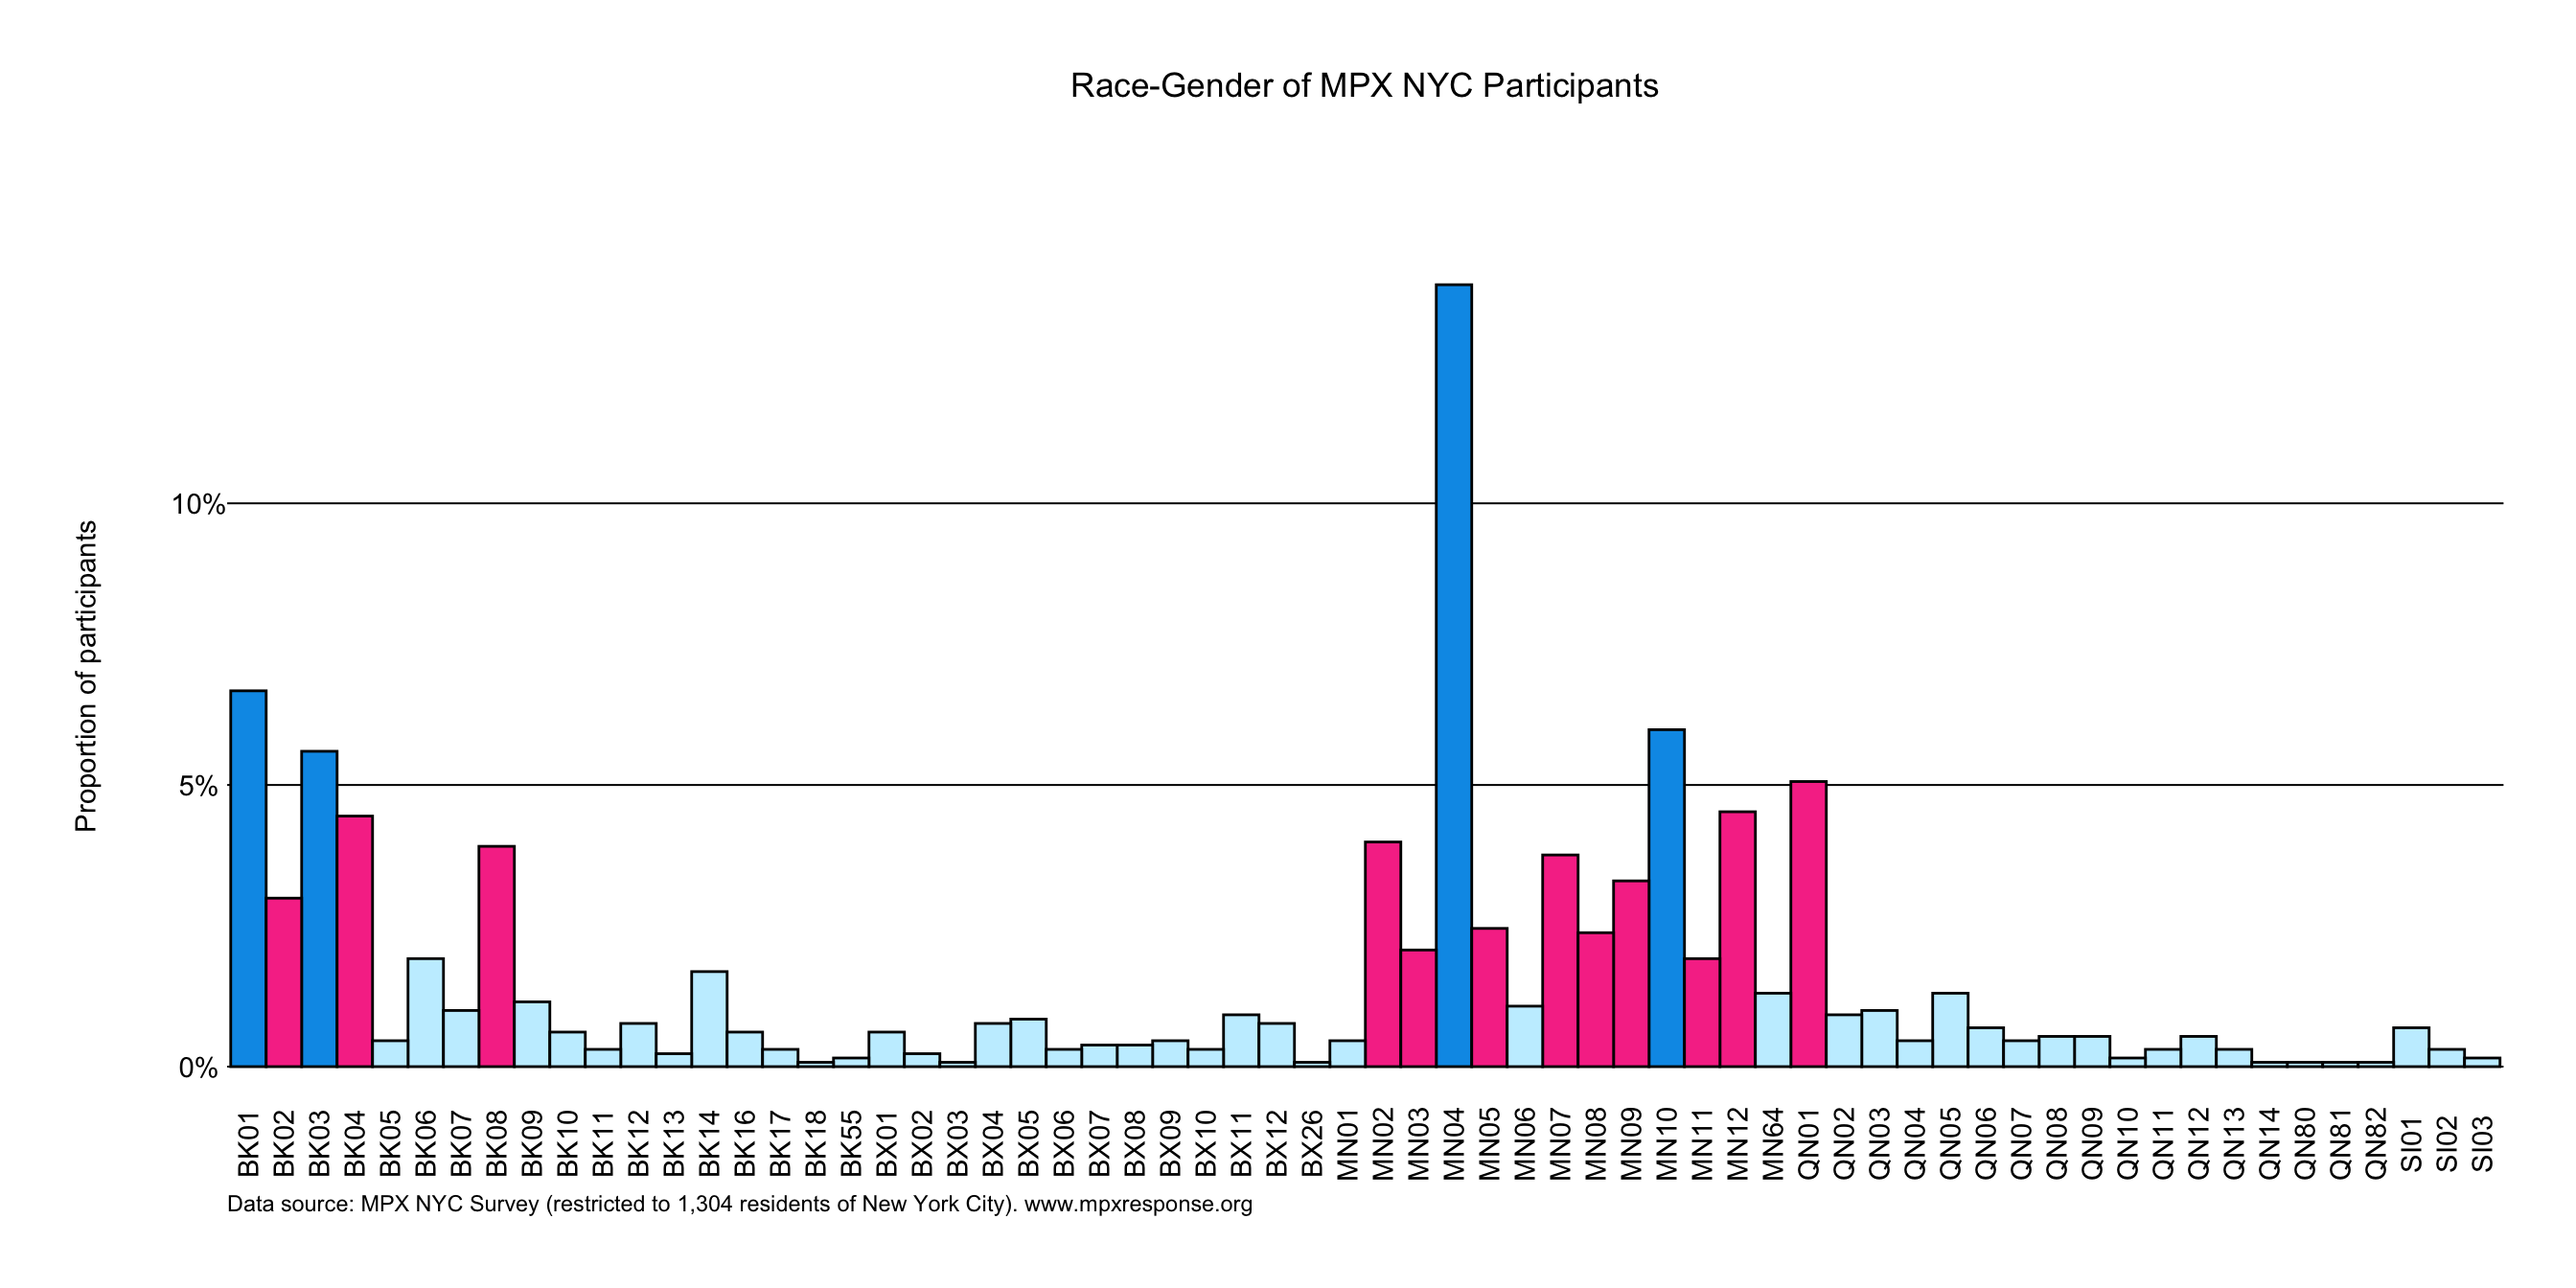
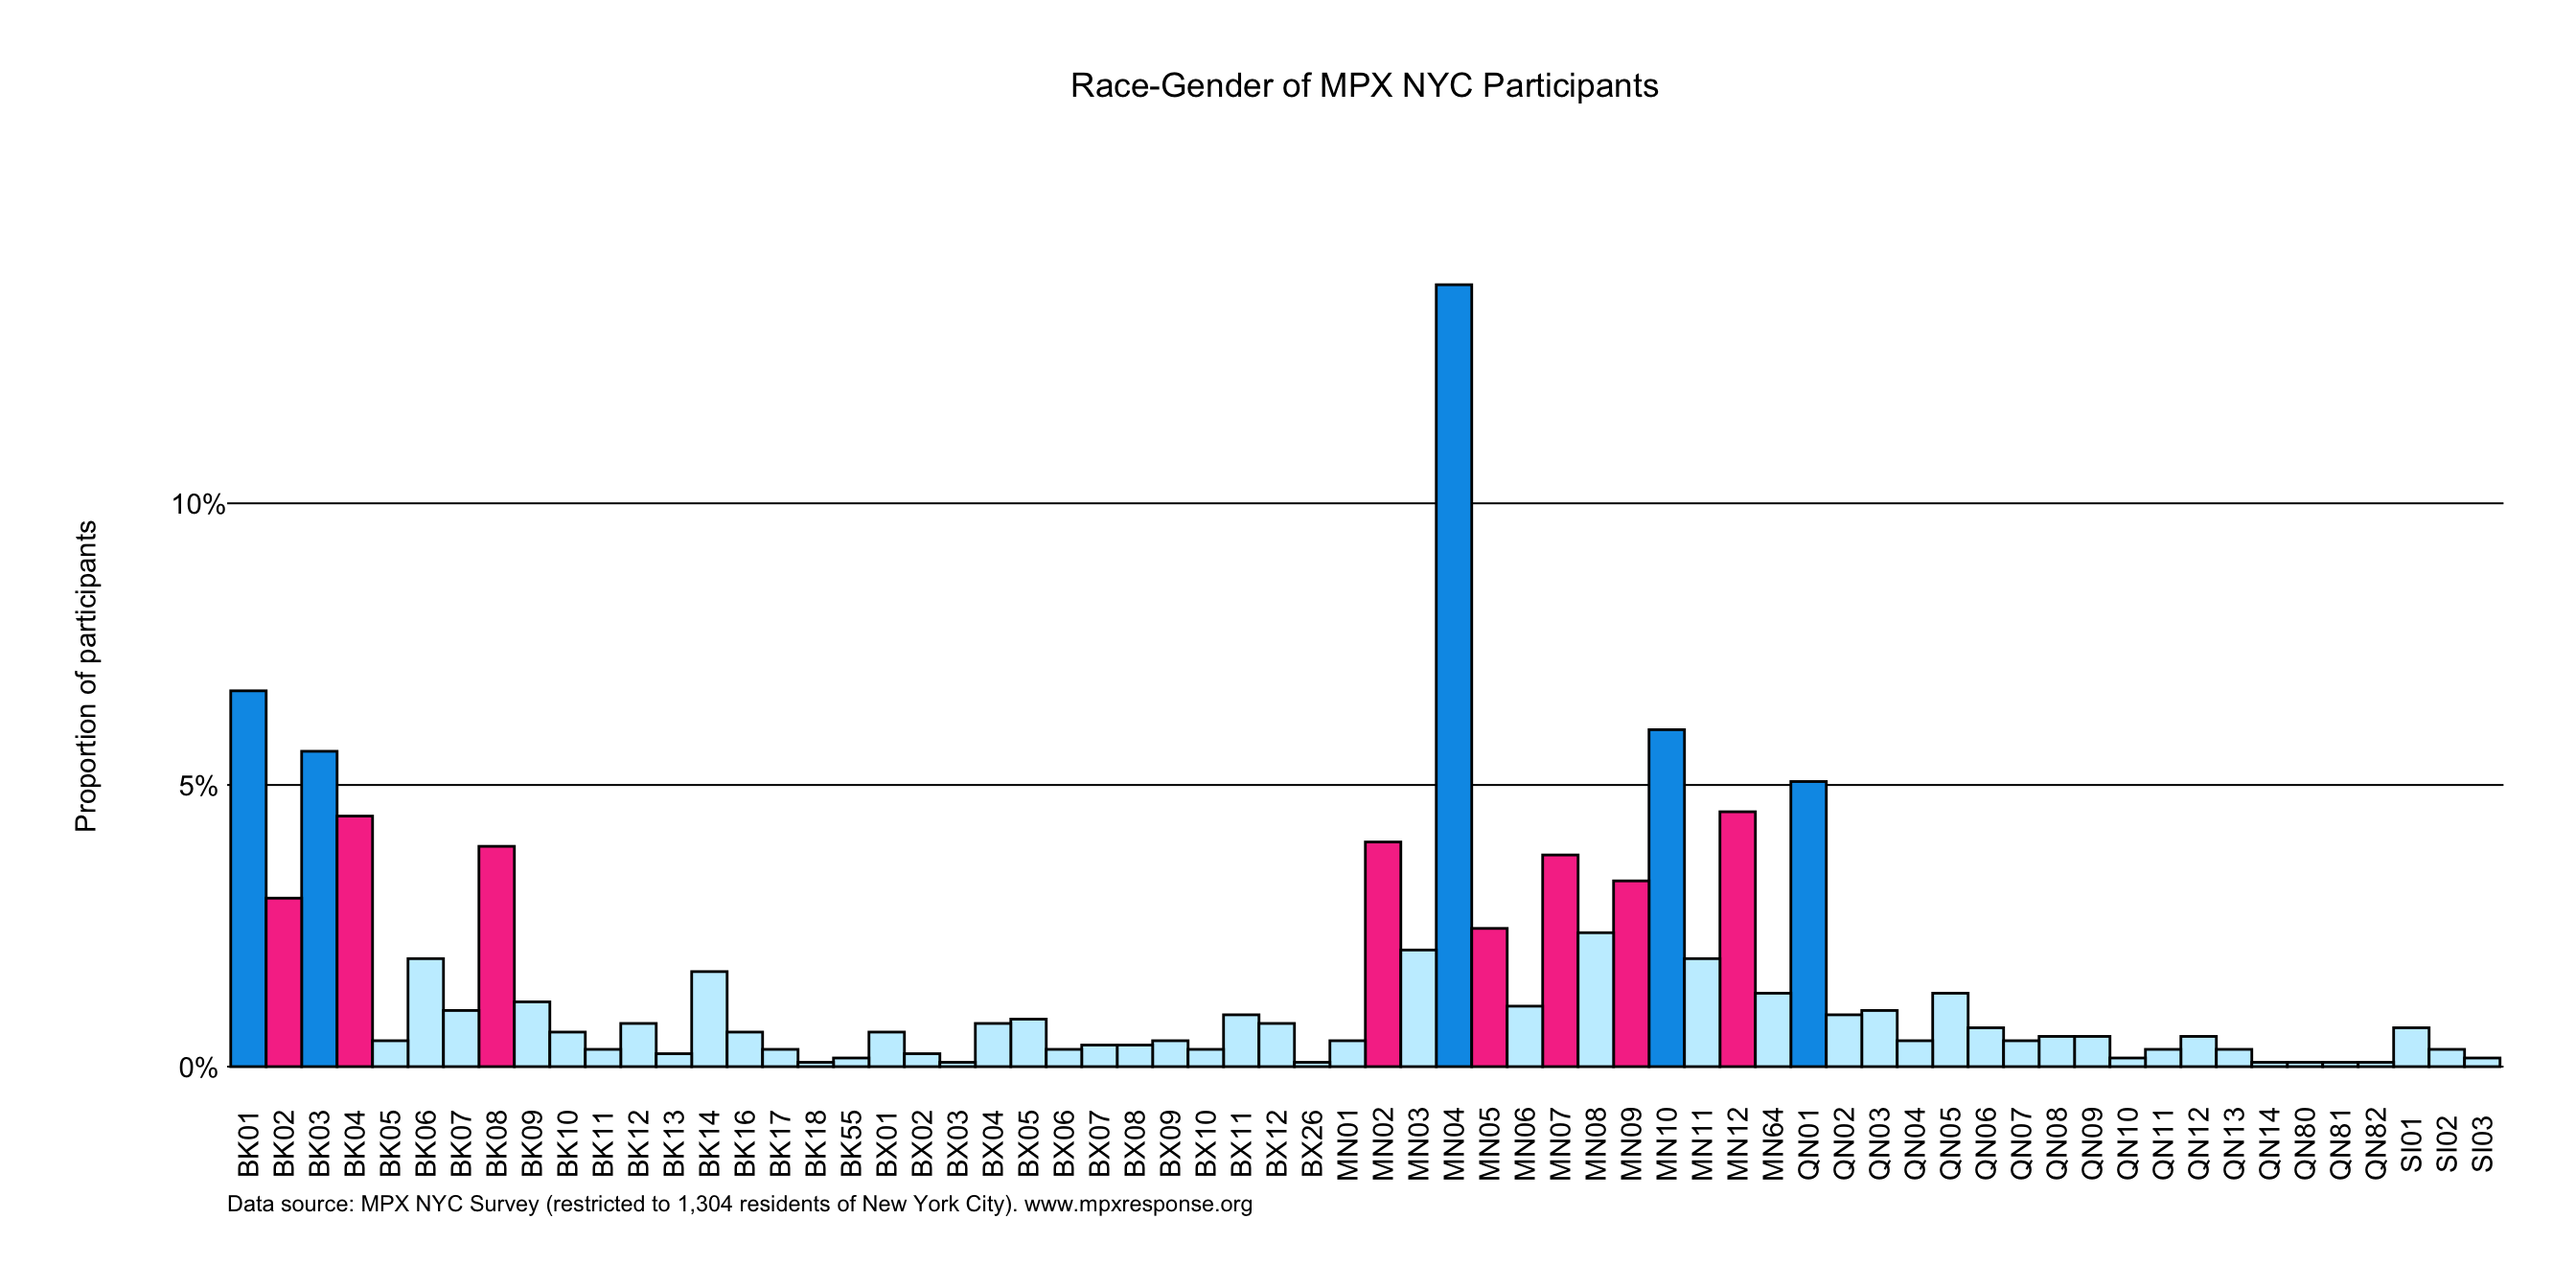
commit

Changed region(s): [[0.6562, 0.5938, 0.7188, 0.8438], [0.5938, 0.7188, 0.625, 0.8438], [0.5312, 0.7188, 0.5625, 0.8438]]

diff --git a/tables_figures.html b/tables_figures.html
@@ -5819,7 +5819,7 @@ Keletso Makofane
 <td style="text-align: right;">0.0506135</td>
 <td style="text-align: right;">0.3719325</td>
 <td style="text-align: right;">5</td>
-<td style="text-align: left;">Group B</td>
+<td style="text-align: left;">Group A</td>
 <td style="text-align: left;">QN01</td>
 </tr>
 <tr class="even">
@@ -6017,7 +6017,7 @@ Keletso Makofane
 <td style="text-align: right;">0.0237730</td>
 <td style="text-align: right;">0.6894172</td>
 <td style="text-align: right;">14</td>
-<td style="text-align: left;">Group B</td>
+<td style="text-align: left;">Group C</td>
 <td style="text-align: left;">MN08</td>
 </tr>
 <tr class="odd">
@@ -6039,7 +6039,7 @@ Keletso Makofane
 <td style="text-align: right;">0.0207055</td>
 <td style="text-align: right;">0.7101227</td>
 <td style="text-align: right;">15</td>
-<td style="text-align: left;">Group B</td>
+<td style="text-align: left;">Group C</td>
 <td style="text-align: left;">MN03</td>
 </tr>
 <tr class="even">
@@ -6061,7 +6061,7 @@ Keletso Makofane
 <td style="text-align: right;">0.0191718</td>
 <td style="text-align: right;">0.7292945</td>
 <td style="text-align: right;">16</td>
-<td style="text-align: left;">Group B</td>
+<td style="text-align: left;">Group C</td>
 <td style="text-align: left;">MN11</td>
 </tr>
 <tr class="odd">
